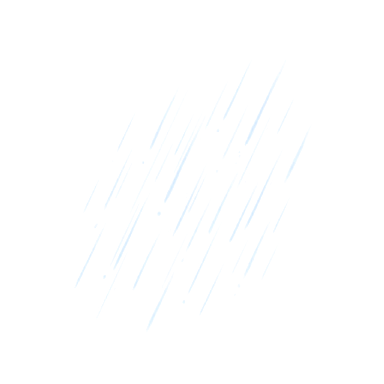
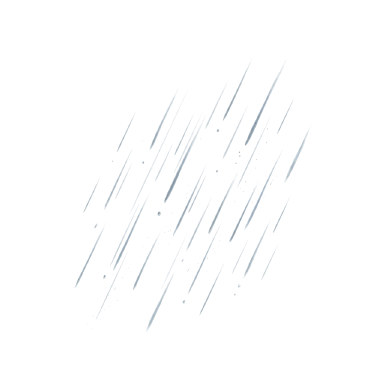
소리·입자 손질 (성능 렌즈) — 도감 알림·계절 띠가 안쪽 애니메이션 끝에 먼저 지워지던 것 · 아이폰은 <audio> 크기를 무시해 음악이 최대로 나던 것 → Web Audio gain · 싸움 뒤 지도 음악은 멈춘 자리에서 잇는다 · 밤 판이 떠 있으면 음악·입자 쉼 · 가려진 탭에선 효과음도 안 냄 · 눈·비 그림자는 그림에 구워 CSS filter 뺌
Claude-Session: https://claude.ai/code/session_01EnDMKdRigjdciJ3LYshHxp

diff --git a/src/ui/realm/sound.ts b/src/ui/realm/sound.ts
@@ -29,46 +29,91 @@ export const SCENE_SOUND: Readonly<Record<string, Slot>> = {
 /** 소리 크기 — 음악은 뒤에 깔리게, 바람소리는 더 낮게 */
 const BGM_VOL = 0.22
 const AMB_VOL = 0.1
-/** 음악을 바꿀 때 줄였다 키우는 걸음 (ms) */
-const FADE_STEP = 60
-const FADE_N = 10
+/** 음악이 들어오고 빠지는 빠르기 (초 — setTargetAtTime 의 시간 상수) */
+const FADE_S = 0.25
 
-/** 한 줄로 도는 소리 하나 (음악 · 바람) */
-function track(base: string, vol: number): { want(slot: Slot | null): void; pause(): void; resume(): void } {
-  let el: HTMLAudioElement | null = null
-  let cur: Slot | null = null
-  let fade = 0
-  const stopFade = (): void => { if (fade !== 0) { clearInterval(fade); fade = 0 } }
-  const start = (): void => {
-    if (cur === null || document.visibilityState !== 'visible') return
-    if (el === null) {
-      el = new Audio(`${base}${snd(cur)}.ogg`)
-      el.loop = true
-      el.volume = 0
-    }
-    const a = el
-    void a.play().then(() => {
-      stopFade()
-      let i = 0
-      fade = window.setInterval(() => { i++; a.volume = vol * Math.min(1, i / FADE_N); if (i >= FADE_N) stopFade() }, FADE_STEP)
-    }).catch(() => { /* 아직 손을 안 댔다 — 첫 탭에 다시 */ })
-  }
-  return {
-    want(slot) {
-      if (slot === cur) { if (el?.paused !== false) start(); return }
-      stopFade()
-      el?.pause()
-      el = null
-      cur = slot
-      start()
-    },
-    pause() { stopFade(); el?.pause() },
-    resume() { if (el === null || el.paused) start() },
+/**
+ * 크기는 Web Audio 의 gain 으로 준다 — 아이폰 사파리는 <audio>.volume 을 무시하고 늘 1로 튼다.
+ * 문서에 하나만 두고, 탭이 가려지면 멈춘다 (makeMusic). 없는 곳에선 .volume 으로.
+ */
+let ctx: AudioContext | null | undefined
+function audio(): AudioContext | null {
+  if (ctx !== undefined) return ctx
+  type Ctor = new () => AudioContext
+  const g = globalThis as unknown as { AudioContext?: Ctor; webkitAudioContext?: Ctor }
+  const C = g.AudioContext ?? g.webkitAudioContext
+  try { ctx = C !== undefined ? new C() : null } catch { ctx = null }
+  return ctx
+}
+
+/** <audio> 를 gain 에 이어 둔다 — 크기는 gain 으로 */
+function wire(el: HTMLAudioElement, vol: number): GainNode | null {
+  const c = audio()
+  if (c === null) { el.volume = vol; return null }
+  try {
+    const gain = c.createGain()
+    gain.gain.value = vol
+    c.createMediaElementSource(el).connect(gain).connect(c.destination)
+    return gain
+  } catch {
+    el.volume = vol
+    return null
   }
 }
 
-/** 배경 음악 + 계절 바람 — muted() 가 참이면 아무것도 안 튼다 */
-export function makeMusic(base: string, muted: () => boolean): {
+/** 한 번 울리는 소리 (ding) — 탭이 가려져 있으면 안 낸다 */
+export function playOnce(url: string, vol: number): void {
+  if (document.visibilityState !== 'visible') return
+  try {
+    const a = new Audio(url)
+    wire(a, vol)
+    void audio()?.resume().catch(() => {})
+    void a.play().catch(() => {})
+  } catch { /* 소리를 못 내는 곳 */ }
+}
+
+/** 한 줄로 도는 소리 하나 (음악 · 바람). 곡마다 요소를 하나씩 두고 다시 쓴다 — 싸움 뒤 지도 음악은 멈춘 자리에서 잇는다 */
+function track(base: string, vol: number): { want(slot: Slot | null): void; pause(): void; resume(): void } {
+  const els = new Map<Slot, { el: HTMLAudioElement; gain: GainNode | null }>()
+  let cur: Slot | null = null
+  const node = (slot: Slot): { el: HTMLAudioElement; gain: GainNode | null } => {
+    let n = els.get(slot)
+    if (n === undefined) {
+      const el = new Audio(`${base}${snd(slot)}.ogg`)
+      el.loop = true
+      n = { el, gain: wire(el, vol) }
+      if (n.gain !== null) n.gain.gain.value = 0
+      els.set(slot, n)
+    }
+    return n
+  }
+  const start = (): void => {
+    if (cur === null || document.visibilityState !== 'visible') return
+    const n = node(cur)
+    void n.el.play().then(() => {
+      if (n.gain !== null && ctx) n.gain.gain.setTargetAtTime(vol, ctx.currentTime, FADE_S)
+    }).catch(() => { /* 아직 손을 안 댔다 — 첫 탭에 다시 */ })
+  }
+  const stop = (slot: Slot | null): void => {
+    const n = slot !== null ? els.get(slot) : undefined
+    if (n === undefined) return
+    n.el.pause()
+    if (n.gain !== null) n.gain.gain.value = 0
+  }
+  return {
+    want(slot) {
+      if (slot === cur) { if (cur !== null && els.get(cur)?.el.paused !== false) start(); return }
+      stop(cur)
+      cur = slot
+      start()
+    },
+    pause() { stop(cur) },
+    resume() { if (cur !== null && els.get(cur)?.el.paused !== false) start() },
+  }
+}
+
+/** 배경 음악 + 계절 바람 — muted() 나 quiet()(밤 판이 떠 있다) 가 참이면 안 튼다 */
+export function makeMusic(base: string, muted: () => boolean, quiet: () => boolean): {
   map(season: 'spring' | 'summer' | 'autumn' | 'winter'): void
   war(): void
   refresh(): void
@@ -76,16 +121,26 @@ export function makeMusic(base: string, muted: () => boolean): {
   const bgm = track(base, BGM_VOL)
   const amb = track(base, AMB_VOL)
   let mode: { bgm: Slot; amb: Slot | null } | null = null
+  const off = (): boolean => mode === null || muted() || quiet()
   const apply = (): void => {
-    if (mode === null || muted()) { bgm.want(null); amb.want(null); return }
-    bgm.want(mode.bgm)
-    amb.want(mode.amb)
+    if (off()) { bgm.want(null); amb.want(null); return }
+    bgm.want(mode!.bgm)
+    amb.want(mode!.amb)
   }
   // 탭이 가려지면 멈추고, 돌아오면 잇는다 · 브라우저는 손을 대기 전엔 소리를 막으니 첫 탭에 다시 튼다
   document.addEventListener('visibilitychange', () => {
-    if (document.visibilityState === 'visible') { if (!muted()) { bgm.resume(); amb.resume() } } else { bgm.pause(); amb.pause() }
+    if (document.visibilityState === 'visible') {
+      void ctx?.resume().catch(() => {})
+      if (!off()) { bgm.resume(); amb.resume() }
+    } else {
+      bgm.pause(); amb.pause()
+      void ctx?.suspend().catch(() => {})
+    }
   })
-  document.addEventListener('pointerdown', () => { if (!muted()) { bgm.resume(); amb.resume() } }, { capture: true })
+  document.addEventListener('pointerdown', () => {
+    void audio()?.resume().catch(() => {})
+    if (!off()) { bgm.resume(); amb.resume() }
+  }, { capture: true })
   return {
     map(season) { mode = { bgm: 'bgm_map', amb: `amb_${season}` }; apply() },
     war() { mode = { bgm: 'bgm_war', amb: null }; apply() },

diff --git a/src/ui/realm/app.ts b/src/ui/realm/app.ts
@@ -54,7 +54,7 @@ import { pactOf } from '../../realm/suzerain.ts'
 import { ironOf, riteOf } from '../../realm/paths.ts'
 import { MOOD_CSS, MOOD_WORD, moodImg, moodOf } from './mood.ts'
 import { FRONT_CSS, PROLOGUE_STEPS, winNeed, boardHtml, detailHtml, endingHtml, nationsHtml, prologueHtml, titleHtml, type FrontKit, type History } from './front.ts'
-import { SCENE_SOUND, makeMusic, snd } from './sound.ts'
+import { SCENE_SOUND, makeMusic, playOnce, snd } from './sound.ts'
 import { FEEL_CSS, alertFeel, ambushFeel, envoyFeel, favorFeel, fightFeel, plotFeel, unknownFeel } from './feel.ts'
 
 export interface AppHost {
@@ -90,11 +90,7 @@ function muted(): boolean {
 }
 function ding(name: string, vol = 0.6): void {
   if (muted()) return
-  try {
-    const a = new Audio(`${name.includes('/') ? BASE : SFX}${name}.ogg`)
-    a.volume = vol
-    void a.play().catch(() => {})
-  } catch { /* 소리를 못 내는 곳 */ }
+  playOnce(`${name.includes('/') ? BASE : SFX}${name}.ogg`, vol) // 탭이 가려져 있으면 안 낸다 (규칙 4)
 }
 const PRACTICE: string = (import.meta.env?.BASE_URL ?? '/') + 'night.html?practice=1'
 /** night.html 이 올라갔다 (f9e77aa) — 없는 쪽으로 보내지 않으려 둔 스위치 */
@@ -235,7 +231,7 @@ export function mountRealmApp(root: HTMLElement, host: AppHost): { show(r: Realm
   root.classList.add('ap')
   installTips(root)
   /** 배경 음악 · 계절 바람 — 싸움 창이 열려 있으면 싸움 음악 */
-  const music = makeMusic(BASE, muted)
+  const music = makeMusic(BASE, muted, () => root.querySelector('.nightov') !== null) // 밤 판이 떠 있으면 조용히 — 밤 판은 제 소리를 낸다
   let warOn = false
   root.innerHTML = `<header class="top"></header><div class="mapwrap"></div><div class="seasonp" aria-hidden="true"><i></i><i></i><i></i><i></i></div><div class="legend"></div><div class="zbtns"><button data-act="layers" class="lyb" aria-label="보기">👁</button><button data-act="zin">＋</button><button data-act="zout">－</button></div><div class="layers"></div><button class="next" data-act="next"></button><div class="selbar"></div><div class="roadkey"></div><button class="homebtn" data-act="home">우리 땅</button><button class="logbtn" data-act="log-open">지난 기록</button><div class="tutband"></div>`
     + `<nav class="tabs"></nav><div class="back" data-act="close"></div><section class="sheet"></section><div class="modal"></div><div class="plbox"></div>`
@@ -1627,7 +1623,8 @@ export function mountRealmApp(root: HTMLElement, host: AppHost): { show(r: Realm
     ov.className = 'nightov'
     ov.innerHTML = `<iframe src="${src}" title="${title}"></iframe><button class="btn" data-close>닫기</button>`
     root.appendChild(ov)
-    const close = (): void => ov.remove()
+    music.refresh()
+    const close = (): void => { ov.remove(); music.refresh() }
     ov.querySelector('[data-close]')!.addEventListener('click', close)
     // "돌아가기"는 틀을 about:blank 로 보낸다 — 그때만 닫는다 (결과판의 '연습장'처럼 틀 안에서 옮겨 가는 건 그대로 둔다)
     const ifr = ov.querySelector('iframe')!
@@ -2450,7 +2447,7 @@ export function mountRealmApp(root: HTMLElement, host: AppHost): { show(r: Realm
     const el = document.createElement('div')
     el.className = `seasonfx ${s}`
     el.innerHTML = `<i class="band" style="background-image:url('${ART}season/season-${s}.jpg')"></i><div>${icon(SEASON_ICON[s], 'sfx-ic')}<b>${esc(seasonLabel(season))}</b><span>${esc(SEASON_LINE[s])}</span></div>`
-    el.addEventListener('animationend', () => el.remove(), { once: true })
+    el.addEventListener('animationend', (e) => { if (e.target === el) el.remove() }) // 안쪽 글자의 애니메이션이 먼저 끝나도 띠를 걷지 않는다
     root.appendChild(el)
     ding(snd('season_turn'), 0.4)
   }
@@ -2609,7 +2606,7 @@ export function mountRealmApp(root: HTMLElement, host: AppHost): { show(r: Realm
     root.insertAdjacentHTML('beforeend', html)
     ding(snd('dex_new'), 0.35)
     const el = root.querySelector('.dxtoast')
-    el?.addEventListener('animationend', () => el.remove(), { once: true })
+    el?.addEventListener('animationend', (e) => { if (e.target === el) el.remove() }) // 얼굴 뒤 금빛이 먼저 끝나도 알림은 그대로
   }
 
   /** 계절을 넘긴다 — 우리 명령(전장의 명령 줄 포함) + AI 명령. 막히면 까닭을 띄운다 */

diff --git a/src/ui/realm/appstyle.ts b/src/ui/realm/appstyle.ts
@@ -467,7 +467,7 @@ html, body { margin: 0; height: 100%; overflow: hidden; background: #14181e; ove
  */
 export const SEASONP_CSS = `
 .ap .seasonp { position: absolute; left: 0; right: 0; top: calc(var(--toph) + var(--legh)); bottom: var(--tabh); pointer-events: none; overflow: hidden; z-index: 1; }
-.ap.choosing .seasonp { display: none; }
+.ap.choosing .seasonp, .ap.war-open .seasonp, .ap:has(.nightov) .seasonp { display: none; } /* 밤 판·싸움 창 밑에서는 쉬게 — 화면 일을 나눠 쓴다 */
 .ap .seasonp i { position: absolute; top: -40vmin; width: 30vmin; max-width: 240px; aspect-ratio: 1; background: center / contain no-repeat; opacity: .5;
   animation: spfall 28s linear infinite; will-change: transform; }
 .ap .seasonp i:nth-child(1) { left: 2%; animation-delay: -4s; }
@@ -476,10 +476,9 @@ export const SEASONP_CSS = `
 .ap .seasonp i:nth-child(4) { left: 84%; animation-delay: -24s; animation-duration: 37s; }
 .ap .seasonp[data-s="spring"] i { background-image: url(__ART__fx/petals.png); }
 .ap .seasonp[data-s="autumn"] i { background-image: url(__ART__fx/leaves.png); opacity: .42; }
-/* 눈·비는 희어서 밝은 바탕(안 가 본 땅)에 묻힌다 — 옅은 테두리 그림자 */
-.ap .seasonp[data-s="winter"] i { background-image: url(__ART__fx/snow.png); opacity: .75; animation-name: spsnow; filter: drop-shadow(0 0 1.5px rgba(30, 45, 70, .75)); }
-.ap .seasonp[data-s="summer"] i { background-image: url(__ART__fx/rain.png); width: 44vmin; max-width: 360px; opacity: .8; animation-name: sprain; animation-duration: 5s;
-  filter: brightness(.55) saturate(1.5) drop-shadow(0 0 1px rgba(255, 255, 255, .5)); }
+/* 눈·비는 희어서 밝은 바탕(안 가 본 땅)에 묻힌다 — 테두리 그림자(비는 어둡게까지)를 그림에 구워 두었다. CSS filter 는 폰 GPU 를 먹는다 */
+.ap .seasonp[data-s="winter"] i { background-image: url(__ART__fx/snow.png); opacity: .75; animation-name: spsnow; }
+.ap .seasonp[data-s="summer"] i { background-image: url(__ART__fx/rain.png); width: 44vmin; max-width: 360px; opacity: .8; animation-name: sprain; animation-duration: 5s; }
 .ap .seasonp[data-s="summer"] i:nth-child(2) { animation-duration: 6s; } .ap .seasonp[data-s="summer"] i:nth-child(3) { animation-duration: 4.4s; } .ap .seasonp[data-s="summer"] i:nth-child(4) { animation-duration: 5.6s; }
 @keyframes spfall { from { transform: translate(0, 0) rotate(0deg); } to { transform: translate(-14vw, calc(100vh + 60vmin)) rotate(150deg); } }
 @keyframes spsnow { from { transform: translate(0, 0); } to { transform: translate(-5vw, calc(100vh + 60vmin)); } }
